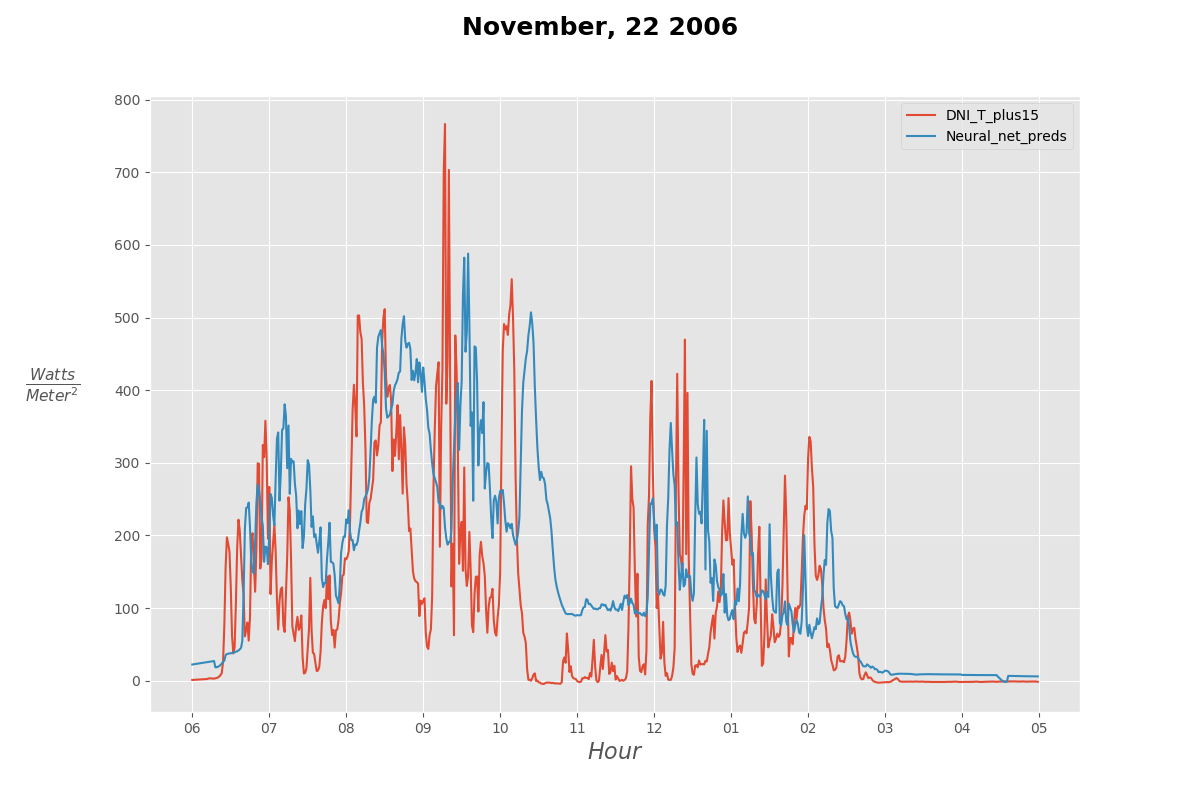
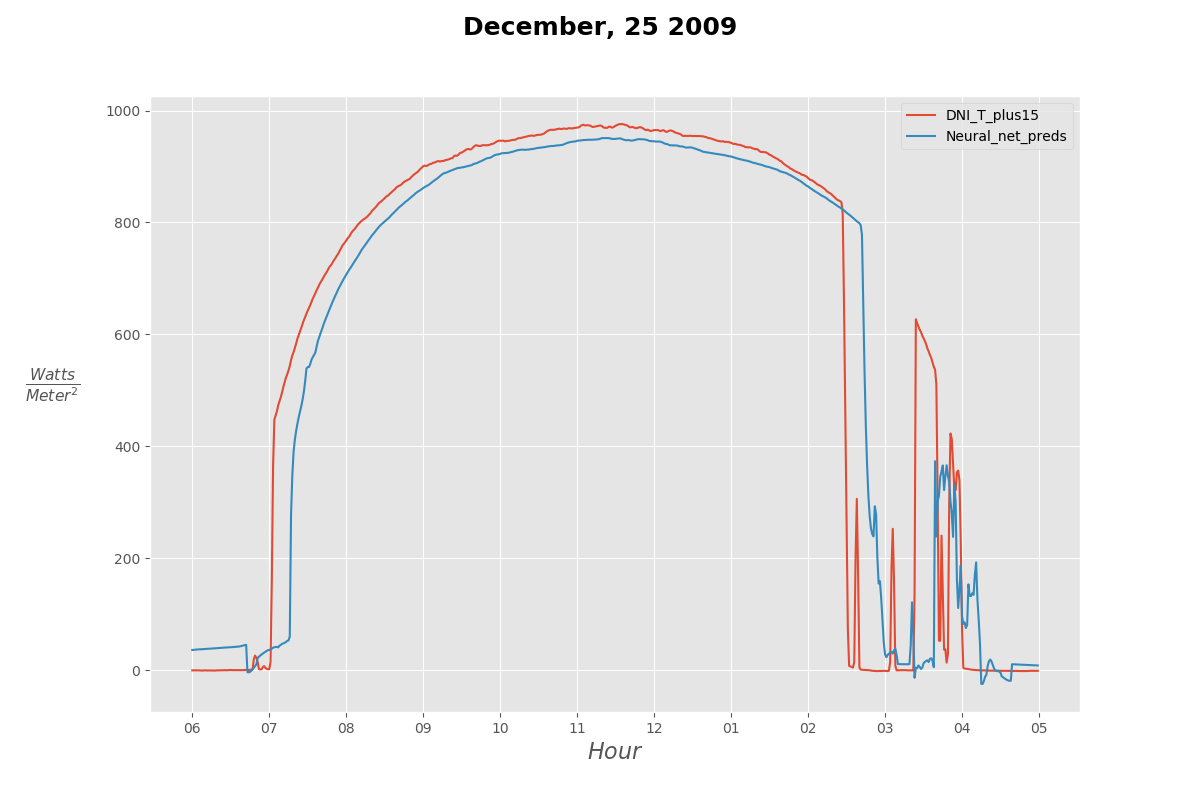
Test new random seed: starting test_model() refactor

diff --git a/src/modeling.py b/src/modeling.py
@@ -572,7 +572,7 @@ if __name__ == "__main__":
     error_plot(error_dict, ['lightblue','orange'], "Neural Network vs. Persistence Model Errors", "Cross Validation Period", r"$\frac{Watts}{Meter^2}$", '../images/neural_network_cv_error.png')
 
     # plot sample day
-    np.random.seed(1)
+    np.random.seed(8)
 
     day = np.random.choice(np.unique(df['Date']))
 
